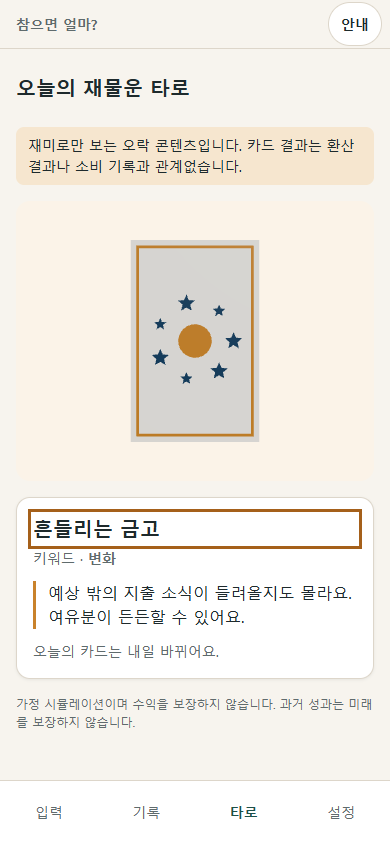
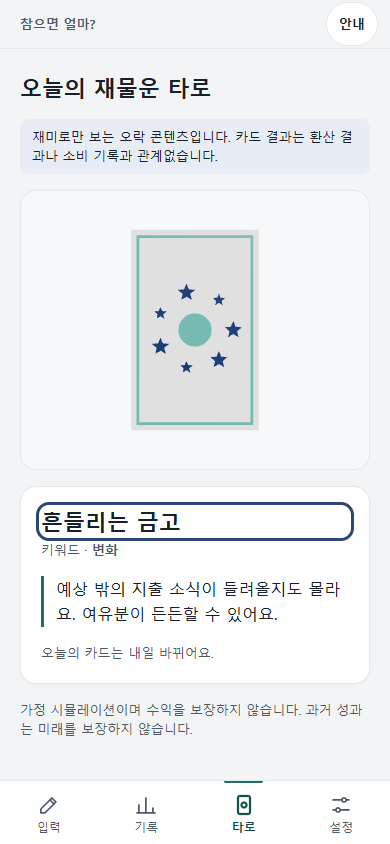
docs: Phase 6 스크린샷과 README 가정 갱신

diff --git a/README.md b/README.md
@@ -352,6 +352,25 @@ $env:SCREENSHOTS='1'; npm run test:e2e    # PowerShell
   - 3D 화면(three 청크 gzip 약 243 kB)은 첫 화면이 아니라 측정 대상이 아니다.
 - 테스트 도구: 컴포넌트 테스트용으로 happy-dom과 Testing Library를 devDependency로 추가했다. Lighthouse는 `npx`로 한 번만 실행했고 의존성에 넣지 않았다.
 
+### Phase 6 디자인 다듬기
+
+- 기능, 문구, 데이터는 바꾸지 않았다. 바꾼 것은 토큰(`tokens.css`), 화면 배치, 탭 아이콘(인라인 SVG)이다. 외부 폰트와 이미지는 추가하지 않았다.
+- 색은 메인 1색(틸), 보조 1색(네이비), 중립 회색으로 제한한다.
+  - 메인 색을 틸로 유지한 이유: 파비콘과 OG 이미지를 다시 만들지 않아도 된다.
+  - 금색은 불어난 코인과 환산 코인에만 쓴다.
+  - 저금통은 메인 색의 옅은 톤, 저울 프레임은 회색, 쓰는 금액 더미는 보조 색으로 바꿨다.
+  - 오류 표시 빨강(danger)은 기능 색이라 예외로 남겼다.
+- (보정) 포커스 외곽선 색을 보조 색으로 바꾸고 기준을 4.5:1로 올렸다(라이트 #2c4775, 다크 #93abd9). Phase 5의 #a5601a는 더 쓰지 않는다.
+- 타이포는 핵심 숫자(36px, 굵게, tabular-nums), 본문(16px), 보조(13px, muted) 3단계로 나눈다. 화면 제목은 22px이다. 면책 문구도 13px이다.
+- 간격은 4px 기반(4/8/12/16/24/32)이다. 화면 좌우 20px, 카드 내부 20px, 카드 라운드 16px, 그림자는 약한 것 하나만 쓴다(다크는 없음).
+- 입력 화면
+  - 금액 칸을 제목 바로 아래 큰 숫자 입력으로 옮겼다.
+  - 칩은 4열 그리드로 정렬한다.
+  - 환산하기는 탭 바 위에 고정한다. DOM 순서는 그대로라 키보드 순서는 같다.
+- 결과 화면은 핵심 문장과 금액 카드, 연출 카드(고정 높이), 수치 요약 카드 순으로 둔다.
+- 화면 전환 페이드는 투명도만 바꾼다. 이동(transform)을 쓰면 애니메이션 동안 고정 버튼의 기준이 바뀌어 흔들리기 때문이다. 동작 줄이기 환경에서는 페이드와 눌림 축소를 모두 끈다.
+- 3D 타로 카드는 흰 앞면이 톤 매핑으로 회색처럼 보여서 조명을 조금 밝혔다(ambient 1.3에서 1.9).
+
 ### 배포 준비
 
 - `vite.config.ts`의 `base`는 환경변수 `BASE_PATH`로 받는다. 없으면 `/`이다.
